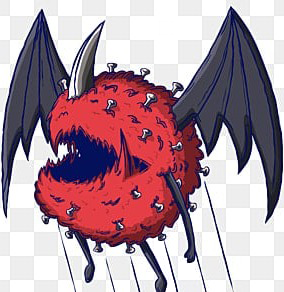
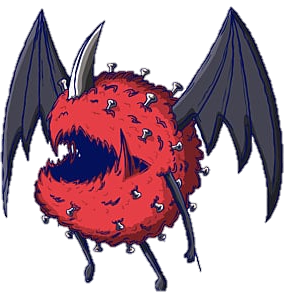
mejora de sprites

diff --git a/Star_Chasers_agregado/asteroide.cpp b/Star_Chasers_agregado/asteroide.cpp
@@ -2,12 +2,11 @@
 
 asteroide::asteroide()
 {
-    asteroide_.load(":/new/prefix1/images/asteoroide.jpeg");
+    asteroide_.load(":/new/prefix1/images/asteroide.png");
 }
 
 asteroide::~asteroide()
-{
-    delete time_asteroide;
+{ 
 }
 
 void asteroide::set_imagen()
@@ -21,43 +20,3 @@ void asteroide::set_scale(int a, int b)
     scalex = a;
     scaley = b;
 }
-
-/*void asteroide::movimiento_circular()
-{
-
-
-
-    time_asteroide = new QTimer;
-    connect(time_asteroide, SIGNAL(timeout()), this, SLOT(generar_movimiento()));
-    time_asteroide->start(70);
-}*/
-
-void asteroide::generar_movimiento(QList<asteroide *> lista_asteroides, int Xo, int Yo, int r)
-{
-    //posX = Xo;
-    //posY = Yo;
-    //R = r;
-
-    //X = R*cos(w*N*T) + posX;
-    //Y = R*sin(w*N*T) + posY;
-    N++;
-    qDebug() << "ok" ;
-
-    for(int i=0; i<lista_asteroides.size(); i++){
-        //(lista_asteroides[i]->setX(lista_asteroides[i]->X),lista_asteroides[i]->setY(lista_asteroides[i]->Y));
-        //lista_asteroides[i]->setX(lista_asteroides[i]->X);
-        //lista_asteroides[i]->setY(lista_asteroides[i]->Y);
-        //setPos(X,Y);
-        //setPos(X,Y);
-        //setY(lista_asteroides.y());
-        lista_asteroides[i]->setX(lista_asteroides[i]->x()-5);
-
-    }
-}
-
-
-/*
-    X= R(circulo)*Cos(wNT)+ Xo
-    Y= R(circulo)*Sen(wNT)+ Yo
-    N-->contador --- > trabajarlo como entero
-    */

diff --git a/Star_Chasers_agregado/asteroide.h b/Star_Chasers_agregado/asteroide.h
@@ -16,19 +16,11 @@ public:
     ~asteroide();   
     void set_imagen();
     void set_scale(int a, int b);
-    //void movimiento_circular(int Xo, int Yo, int r);
-
     int size;
-
-public slots:
-    void generar_movimiento(QList<asteroide *> lista_asteroides, int Xo, int Yo, int r);
 
 private:
     QPixmap asteroide_;
-    QTimer *time_asteroide;
-
     int scalex =1, scaley= 1;
-    int N=1, R, T=1, posX, posY, X, Y, w=1; //w frecuencia angular
 
 };
 

diff --git a/Star_Chasers_agregado/inicio.cpp b/Star_Chasers_agregado/inicio.cpp
@@ -286,7 +286,7 @@ void inicio::generar_asteroide(QList<asteroide*> lista_asteroides)
     bool bandera=true;
     int aleatorioX, aleatorioY;
     for (int i=0; i<lista_asteroides.size();i++ ){
-        lista_asteroides[i]->set_scale(tam/2,tam/2);
+        lista_asteroides[i]->set_scale(tam,tam);
 
         //se generarn los numeros aleatorios
         aleatorioX=(rand()%(ui->View2->width()-2));

diff --git a/Star_Chasers_agregado/inicio.h b/Star_Chasers_agregado/inicio.h
@@ -15,7 +15,6 @@
 #include<QGraphicsItem>
 
 #include "jugador1.h"
-#include "jugador2.h"
 #include "enemigo1.h"
 #include "window2.h"
 #include "proyectil.h"
